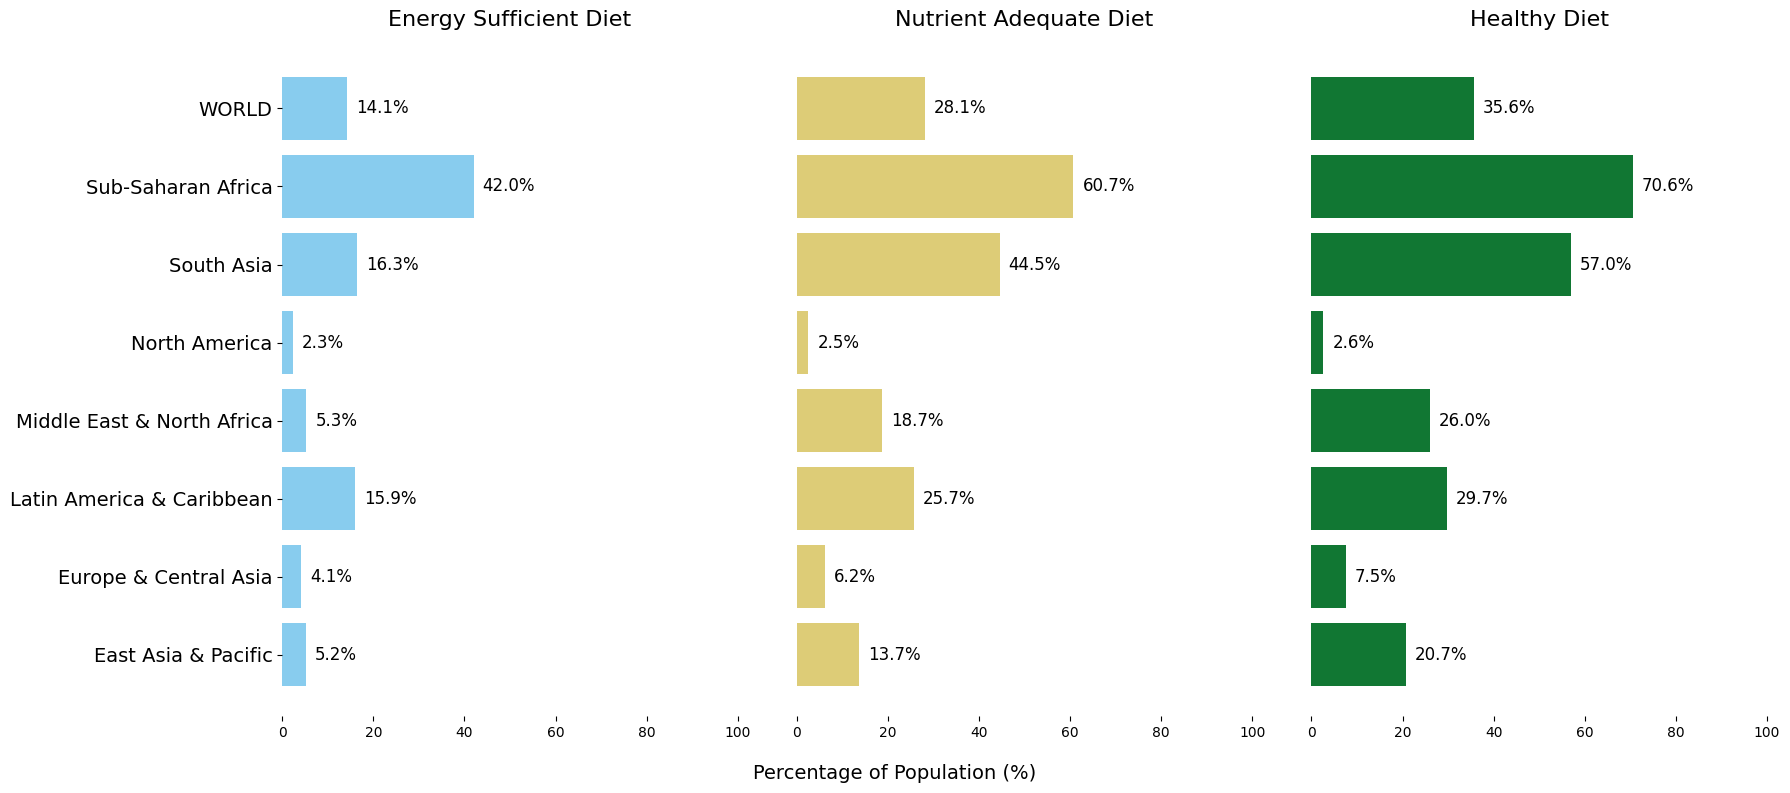
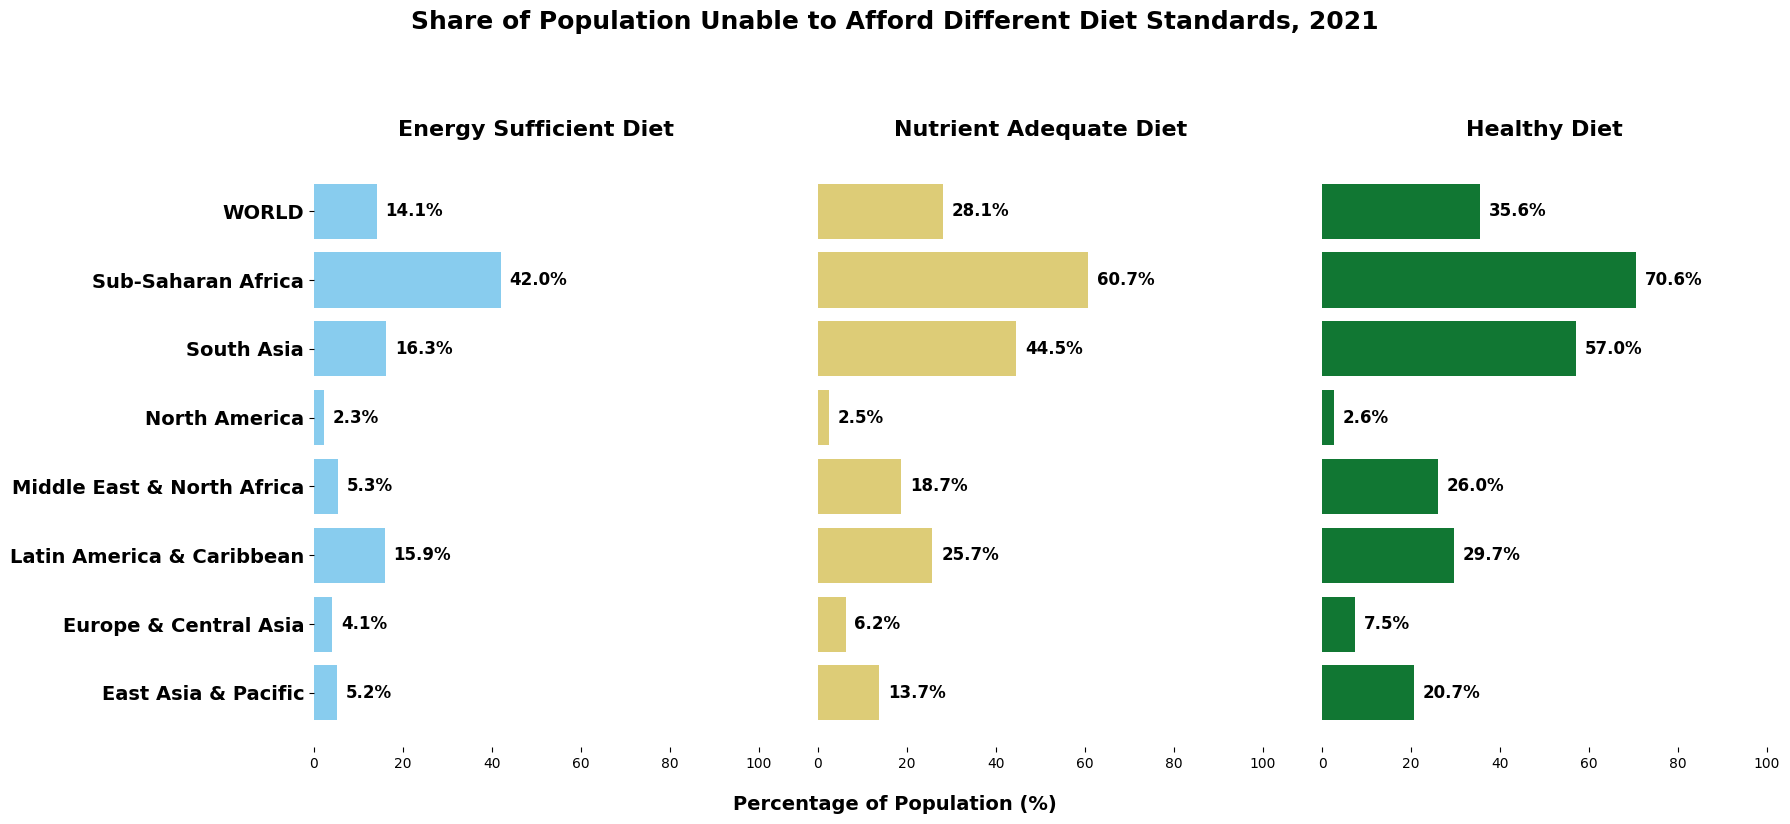
Improved population affordability bar chart aesthetics

diff --git a/scripts/create_affordability_bar_chart.py b/scripts/create_affordability_bar_chart.py
@@ -1,0 +1,96 @@
+import pandas as pd
+import matplotlib.pyplot as plt
+
+# Path to the dataset
+data_path = './data/Food_Prices_For_Nutrition.xlsx'
+
+try:
+    # Step 1: Load the dataset
+    # Load the main data sheet containing affordability metrics
+    main_data = pd.read_excel(data_path, sheet_name='Data')
+
+    # Load the metadata sheet containing income group and region classifications
+    country_metadata = pd.read_excel(data_path, sheet_name='Country - Metadata')
+
+    # Step 2: Merge data and filter required columns
+    # Merge the main data with metadata on country names
+    merged_data = pd.merge(
+        main_data,
+        country_metadata,
+        left_on='Country Name',
+        right_on='Table Name',
+        how='left'
+    )
+
+    # Extract relevant columns for affordability analysis
+    affordability_data = merged_data[['Country Name', 'Income Group', 'Percent of the population who cannot afford sufficient calories','Percent of the population who cannot afford nutrient adequacy', 'Percent of the population who cannot afford a healthy diet']]
+
+    # Rename columns for clarity and readability
+    affordability_data.columns = ['Country', 'Income Group', 'Energy Sufficient Diet','Nutrient Adequate Diet', 'Healthy Diet']
+
+    # Step 3: Filter and reorder data for the chart
+    # Specify the order of countries and regions for the plot
+    ordered_countries = [
+        "East Asia & Pacific", "Europe & Central Asia", "Latin America & Caribbean",
+        "Middle East & North Africa", "North America", "South Asia", "Sub-Saharan Africa",
+        "WORLD", "High income", "Upper-middle income", "Lower-middle income", "Low income"
+    ]
+    # Filter and reorder data based on the specified order
+    affordability_data = affordability_data[affordability_data['Country'].isin(ordered_countries)]
+    affordability_data = affordability_data.set_index('Country').reindex(ordered_countries)
+
+    # Step 4: Create the plot
+    # Define diet types and corresponding colors for the bar chart
+    diet_types = ['Energy Sufficient Diet', 'Nutrient Adequate Diet', 'Healthy Diet']
+    colours = ['#88CCEE', '#DDCC77', '#117733']  # Light color-blind-friendly palette
+
+    # Create a horizontal bar chart with subplots for each diet type
+    fig, axes = plt.subplots(nrows=1, ncols=3, figsize=(18, 8), sharey=True)
+
+    for i, diet in enumerate(diet_types):
+        ax = axes[i]
+        # Plot the horizontal bar chart
+        ax.barh(affordability_data.index, affordability_data[diet], color=colours[i])
+        ax.set_title(diet, fontsize=16, fontweight='bold', pad=15)  # Add title to each subplot
+        ax.set_xlim(0, 100)  # Set x-axis limits to percentage values
+
+        # Add percentage labels to each bar
+        for index, value in enumerate(affordability_data[diet]):
+            ax.text(value + 2, index, f"{value:.1f}%", va='center', fontsize=12, color='black', fontweight = 'bold')
+
+        # Remove unnecessary spines and grid lines for a cleaner look
+        ax.spines['top'].set_visible(False)
+        ax.spines['right'].set_visible(False)
+        ax.spines['bottom'].set_visible(False)
+        ax.spines['left'].set_visible(False)
+        ax.grid(False)
+
+        # Hide y-axis labels for all but the first subplot
+        if i > 0:
+            ax.tick_params(left=False)
+
+    # Step 5: Add shared labels and adjust layout
+    # Set shared y-axis labels for country names
+    axes[0].set_yticklabels(affordability_data.index, fontsize=14, fontweight = 'bold')
+    axes[0].tick_params(axis='y', labelsize=14)
+
+    # Add a shared x-axis label centered across all subplots
+    fig.text(0.5, 0.02, 'Percentage of Population (%)', ha='center', fontsize=14,fontweight='bold')
+
+    # Add a shared title for the entire figure
+    fig.suptitle('Share of Population Unable to Afford Different Diet Standards, 2021', 
+                 fontsize=18, fontweight='bold', y=1.02)
+
+    # Adjust the layout for better spacing
+    plt.tight_layout(w_pad=3, rect=[0, 0.05, 1, 0.95])  # Add space at the top for the title
+
+    # Step 6: Save and display the figure
+    # Save the final plot as a PNG file
+    plt.savefig('./figures/population_affordability_bar_chart.png', bbox_inches='tight')
+    print("Figure saved to './figures/population_affordability_bar_chart.png'")
+
+    plt.show()
+
+except Exception as e:
+    # Handle any exceptions that occur during data loading or plotting
+    print(f"Error: {e}")
